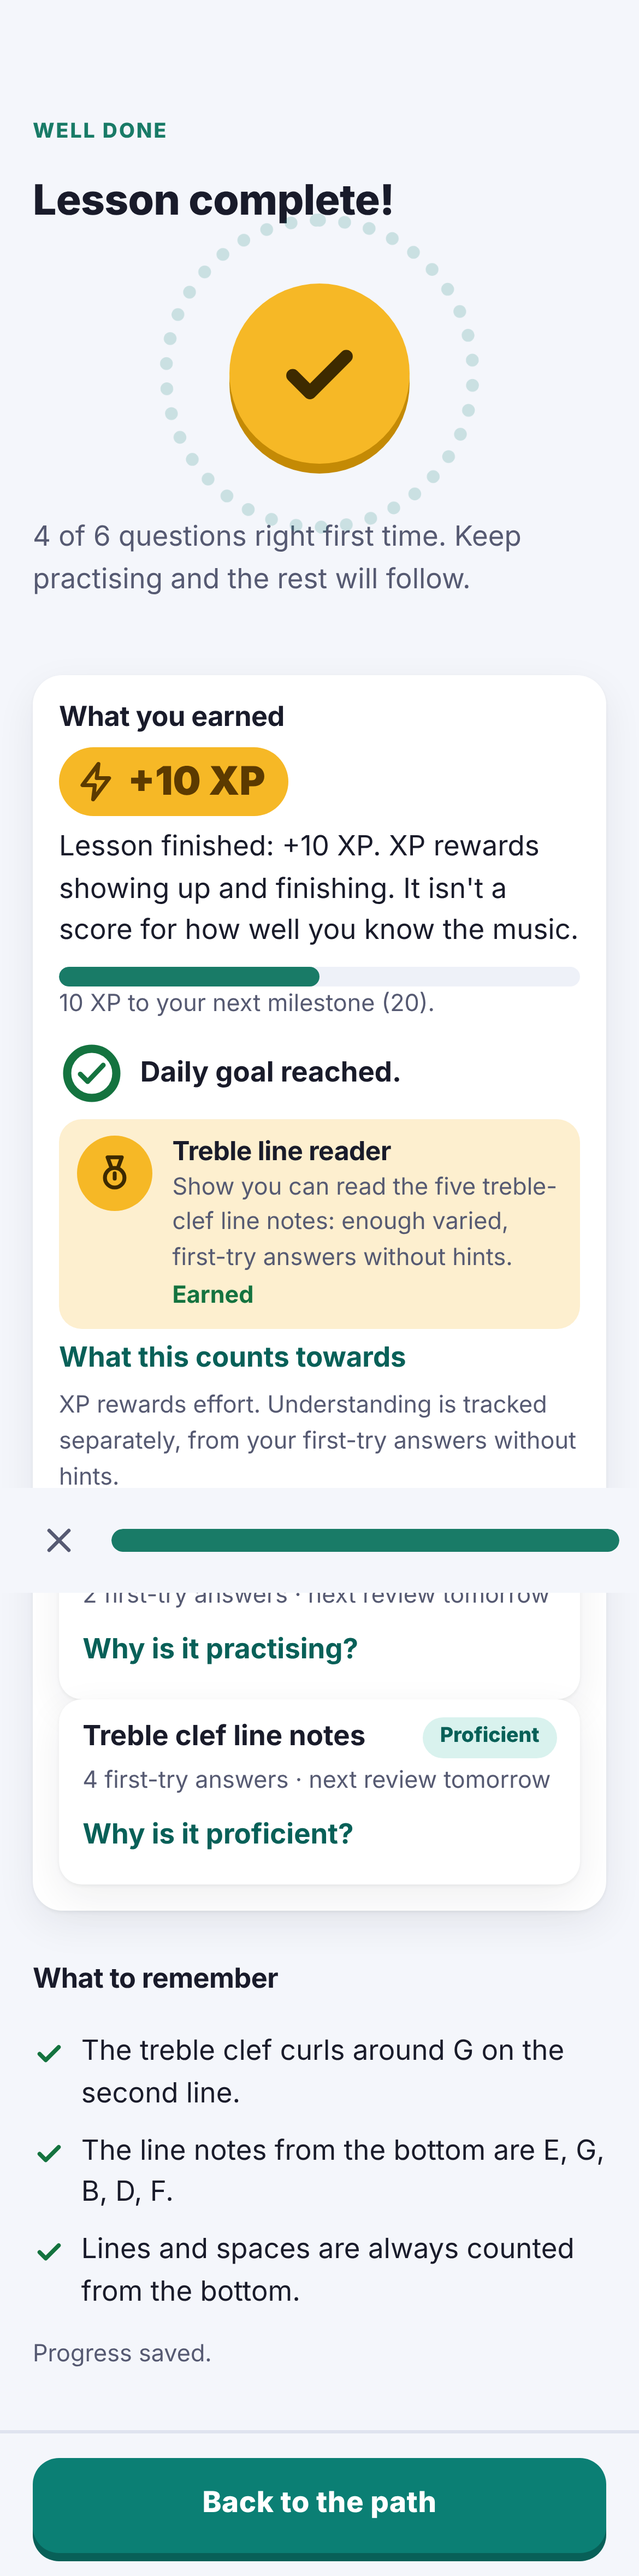
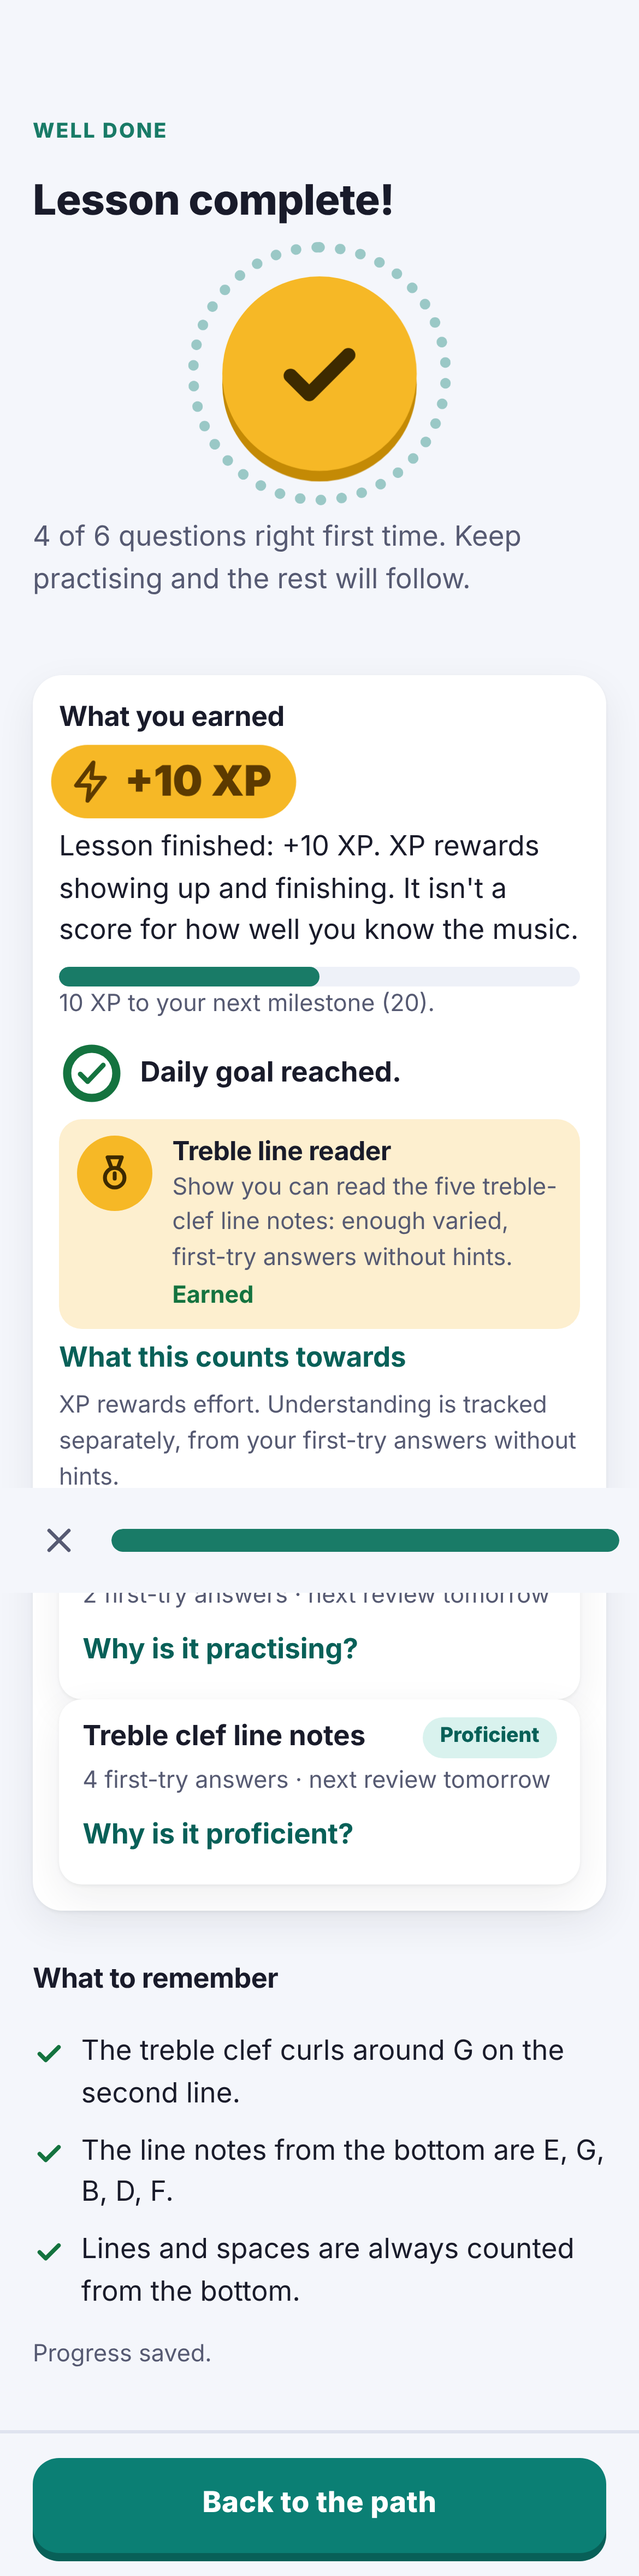
Refresh Brief 04 evidence screenshots for the current behaviour
Claude-Session: https://claude.ai/code/session_01JjrVKNgrngosK9yQrXgg1L

Changed region(s): [[0.2462, 0.0935, 0.7385, 0.2182], [0.2769, 0.2805, 0.4615, 0.3117], [0.0615, 0.2805, 0.1846, 0.3117]]

diff --git a/docs/evidence/brief-04/README.md b/docs/evidence/brief-04/README.md
@@ -10,7 +10,7 @@ Produced by `SHOTS=<dir> npm run e2e:brief04` (real Chromium against the real AP
 | `iphone-05-path-review-due`, `…-06-review-hub-due` | A day later: review nudge, tab dot, Review hub |
 | `iphone-07-review-question`, `ipad-portrait-…`, `ipad-landscape-…` | A review question (no hints) |
 | `iphone-08-review-summary` | Summary, XP, next review dates |
-| `iphone-10-review-mastered`, `desktop-10-…` | Topic mastered after spaced, varied, independent evidence |
+| `iphone-10-review-nearly-mastered`, `desktop-10-…` | After delayed reviews: proficient, with exactly what is missing and a "more questions coming" note where the question pool is the limit (mastery is covered with fixtures) |
 | `iphone-11-progress`, `desktop-11-progress` | Rewards, understanding, badges (simple first, detail on request) |
 | `iphone-12-welcome-back` | Return after a long break: warm message, nothing lost |
 | `dark-…` | Dark mode with reduced motion |
